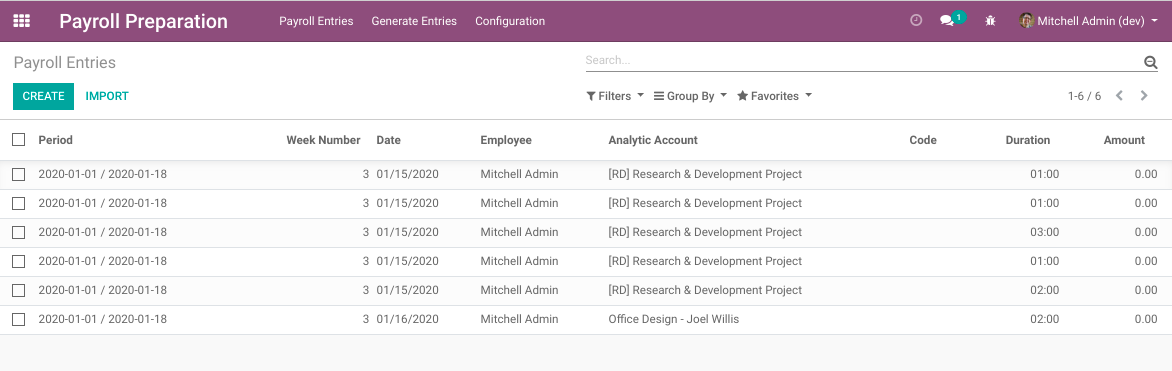
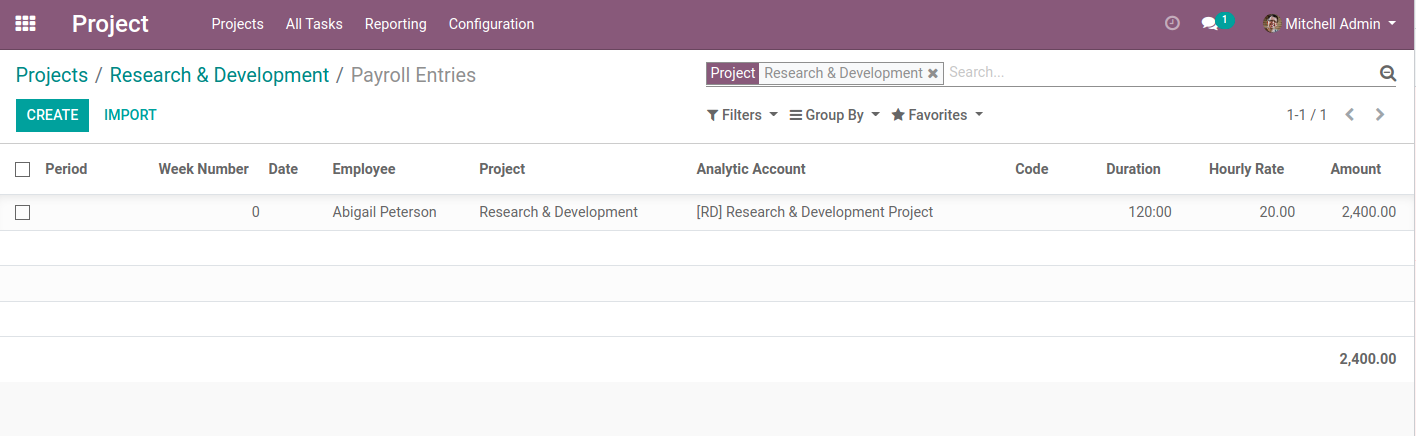
TA#38611 add module payroll_preparation_from_project

diff --git a/payroll_preparation_from_project/__manifest__.py b/payroll_preparation_from_project/__manifest__.py
@@ -2,20 +2,22 @@
 # License LGPL-3.0 or later (http://www.gnu.org/licenses/lgpl).
 
 {
-    'name': 'Payroll Preparation From Project',
-    'version': '1.0.0',
-    'author': 'Numigi',
-    'maintainer': 'Numigi',
-    'website': 'https://www.numigi.com',
-    'license': 'LGPL-3',
-    'category': 'Payroll',
-    'summary': 'Generate payroll entries from projects',
-    'depends': [
-        'payroll_preparation',
+    "name": "Payroll Preparation From Project",
+    "version": "1.0.0",
+    "author": "Numigi",
+    "maintainer": "Numigi",
+    "website": "https://www.numigi.com",
+    "license": "LGPL-3",
+    "category": "Payroll",
+    "summary": "Generate payroll entries from projects",
+    "depends": [
+        "payroll_preparation",
+        "project",
     ],
-    'data': [
-        'wizard/payroll_preparation_from_project.xml',
-        'views/menu.xml',
+    "data": [
+        "wizard/payroll_preparation_from_project.xml",
+        "views/project.xml",
+        "views/payroll_preparation_line.xml",
     ],
-    'installable': True,
+    "installable": True,
 }

diff --git a/payroll_preparation_from_project/models/project.py b/payroll_preparation_from_project/models/project.py
@@ -1,12 +1,30 @@
 # © 2020 - today Numigi (tm) and all its contributors (https://bit.ly/numigiens)
 # License LGPL-3.0 or later (http://www.gnu.org/licenses/lgpl).
 
-from odoo import api, fields, models, _
+from odoo import models, _
 
 
 class Project(models.Model):
 
-    _inherit = 'project.project'
+    _inherit = "project.project"
 
     def open_payroll_preparation_wizard(self):
-        pass
+        action = self.env["payroll.preparation.from.project"].get_formview_action()
+        action["target"] = "new"
+        action["context"] = {
+            "default_project_id": self.id,
+        }
+        return action
+
+    def view_payroll_entries(self):
+        return {
+            "name": _("Payroll Entries"),
+            "type": "ir.actions.act_window",
+            "res_model": "payroll.preparation.line",
+            "view_type": "form",
+            "view_mode": "list,form",
+            "target": "current",
+            "context": {
+                "search_default_project_id": self.id,
+            },
+        }

diff --git a/payroll_preparation_from_project/tests/test_wizard.py b/payroll_preparation_from_project/tests/test_wizard.py
@@ -8,4 +8,17 @@ from .common import PayrollPreparationCase
 
 
 class TestWizard(PayrollPreparationCase):
-    pass
+    def test_open_wizard(self):
+        action = self.project.open_payroll_preparation_wizard()
+        assert action["res_model"] == "payroll.preparation.from.project"
+        assert action["context"]["default_project_id"] == self.project.id
+
+    def test_wizard_validate(self):
+        wizard = self.env["payroll.preparation.from.project"].create(
+            {
+                "project_id": self.project.id,
+            }
+        )
+        action = wizard.action_validate()
+        assert action["res_model"] == "payroll.preparation.line"
+        assert action["context"]["search_default_project_id"] == self.project.id

diff --git a/payroll_preparation_from_project/models/payroll_preparation_line.py b/payroll_preparation_from_project/models/payroll_preparation_line.py
@@ -1,0 +1,15 @@
+# © 2020 - today Numigi (tm) and all its contributors (https://bit.ly/numigiens)
+# License LGPL-3.0 or later (http://www.gnu.org/licenses/lgpl).
+
+from odoo import api, fields, models
+
+
+class PayrollEntry(models.Model):
+
+    _inherit = "payroll.preparation.line"
+
+    project_id = fields.Many2one("project.project", index=True, ondelete="restrict")
+
+    @api.onchange("project_id")
+    def _onchange_project_id(self):
+        self.analytic_account_id = self.project_id.analytic_account_id

diff --git a/payroll_preparation_from_project/wizard/payroll_preparation_from_project.py b/payroll_preparation_from_project/wizard/payroll_preparation_from_project.py
@@ -14,4 +14,8 @@ class PayrollPreparationFromProject(models.TransientModel):
     period_id = fields.Many2one('payroll.period')
 
     def action_validate(self):
+        self._generate_payroll_entries()
+        return self.project_id.view_payroll_entries()
+
+    def _generate_payroll_entries(self):
         pass

diff --git a/.docker_files/main/__manifest__.py b/.docker_files/main/__manifest__.py
@@ -15,6 +15,7 @@
         'payroll_period',
         'payroll_preparation',
         'payroll_preparation_export_wizard',
+        'payroll_preparation_from_project',
         'payroll_preparation_from_timesheet',
         'payroll_preparation_prorata',
         'project_timesheet_time_control_enhanced',

diff --git a/payroll_preparation_from_project/models/__init__.py b/payroll_preparation_from_project/models/__init__.py
@@ -2,5 +2,6 @@
 # License LGPL-3.0 or later (http://www.gnu.org/licenses/lgpl).
 
 from . import (
+    payroll_preparation_line,
     project,
 )

diff --git a/payroll_preparation_from_project/README.rst b/payroll_preparation_from_project/README.rst
@@ -7,6 +7,12 @@ Overview
 --------
 This module allows to generate payroll entries from a project.
 
+When only this module is installed, no payroll entries are generated.
+
+However, another module can implement how the preparation lines are created for a given project.
+
+Usage
+-----
 In the form view of a project, a new action button is added.
 
 .. image:: static/description/project_action_menu.png
@@ -23,11 +29,15 @@ After clicking on ``Validate``, payroll entries are created for this project.
 
 .. image:: static/description/payroll_entry_list.png
 
-Payroll Entries
----------------
-When only this module is installed, no payroll entries are generated.
+Project Smart Button
+--------------------
+The module also adds a smart button in the form view of a project.
 
-However, another module can implement how the preparation lines are created for a given project.
+.. image:: static/description/project_smart_button.png
+
+When I click on the button, I see the list payroll entries generated from this project.
+
+.. image:: static/description/payroll_entry_list.png
 
 Contributors
 ------------
